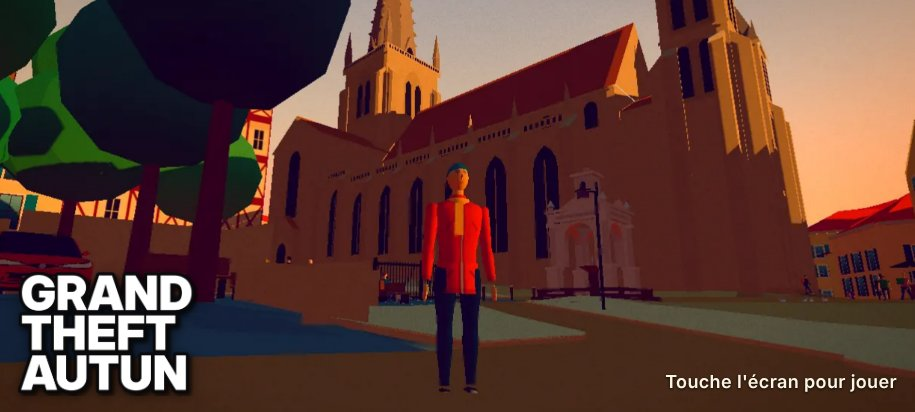
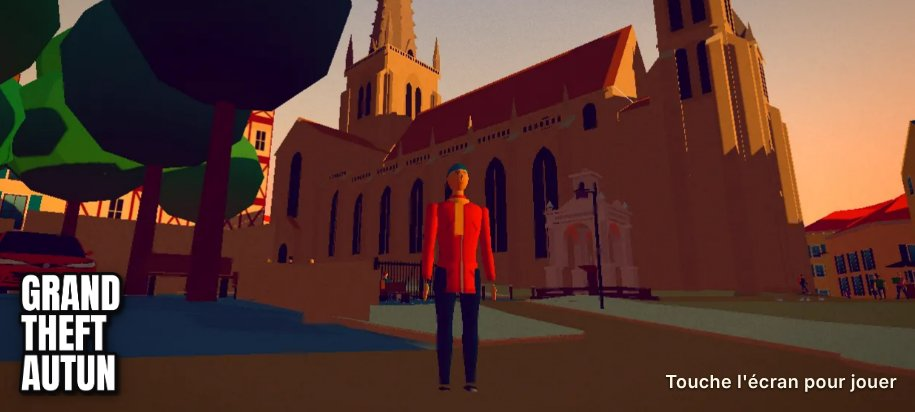
Police du titre : Anton (D339)
Pricedown étant payante, logo et jaquette refaits avec Anton (SIL OFL 1.1), choisie par l'utilisateur ;
police et licence versionnées dans tools/logo/fonts/, make_art.py s'en sert par défaut.

Claude-Session: https://claude.ai/code/session_01UKsfaKB4NzH47dYF7QdmwX

diff --git a/tools/logo/make_art.py b/tools/logo/make_art.py
@@ -2,9 +2,9 @@
 
 Usage : python3 tools/logo/make_art.py [fichier-de-police]
 
-La police des titres (Pricedown, Typodermic) ne sert qu'à fabriquer des images : elle n'est jamais embarquée dans le jeu. Elle reste hors
-du dépôt : premier argument, variable LOGO_FONT, ou premier fichier `.cache/fonts/pricedown*.{ttf,otf}`. Sans elle, le script prend une
-police de repli (Inter Display Black) et le dit : le logo est alors provisoire.
+Police du titre : **Anton** (Google Fonts, licence SIL OFL 1.1, `tools/logo/fonts/OFL-anton.txt`), choisie par l'utilisateur parmi des polices
+libres proches de celle de GTA (Pricedown, payante). Elle ne sert qu'à fabriquer des images : elle n'est pas embarquée dans le jeu. Une autre
+police : premier argument ou variable LOGO_FONT.
 
 Produit :
 - `src/assets/logo.webp` : le logo seul, fond transparent (écran de chargement, intro) ;
@@ -21,18 +21,16 @@ import sys
 from PIL import Image, ImageChops, ImageDraw, ImageEnhance, ImageFilter, ImageFont
 
 ROOT = os.path.dirname(os.path.dirname(os.path.dirname(os.path.abspath(__file__))))
-FALLBACK = "/usr/share/fonts/opentype/inter/InterDisplay-Black.otf"
+TITLE_FONT = os.path.join(ROOT, "tools/logo/fonts/anton.woff")
 LINES = ("GRAND", "THEFT", "AUTUN")
 
 
-def find_font(argv: list[str]) -> tuple[str, bool]:
-    """Chemin de la police et vrai si c'est la police des titres (pas le repli)."""
-    candidates = argv[1:2] + ([os.environ["LOGO_FONT"]] if os.environ.get("LOGO_FONT") else [])
-    candidates += sorted(glob.glob(os.path.join(ROOT, ".cache/fonts/[Pp]ricedown*.[ot]tf")))
-    for path in candidates:
+def find_font(argv: list[str]) -> str:
+    """Chemin de la police : argument, variable LOGO_FONT, sinon Anton."""
+    for path in argv[1:2] + ([os.environ["LOGO_FONT"]] if os.environ.get("LOGO_FONT") else []):
         if os.path.isfile(path):
-            return path, True
-    return FALLBACK, False
+            return path
+    return TITLE_FONT
 
 
 def logo(font_path: str, cap: int) -> Image.Image:
@@ -83,9 +81,7 @@ def save_webp(img: Image.Image, path: str, limit: int, quality: int = 88) -> int
 
 
 def main() -> None:
-    font_path, real = find_font(sys.argv)
-    if not real:
-        print(f"Police des titres absente : repli sur {FALLBACK} (logo provisoire). Déposer pricedown.otf dans .cache/fonts/.")
+    font_path = find_font(sys.argv)
 
     # Logo seul : 3 lignes de 200 px de capitale (affiché vers 26 vh de haut sur l'écran de chargement).
     os.makedirs(os.path.join(ROOT, "src/assets"), exist_ok=True)

diff --git a/docs/ROADMAP.md b/docs/ROADMAP.md
@@ -54,7 +54,7 @@ Chaque étape doit être jouable et testable sur téléphone. Les noms J1 à J7 
   - **Phase 4. Événements aléatoires. Terminée côté code** (`docs/plans/evenements.md` : 13 événements, directeur d'événements, passants réquisitionnés et fuite volontaire, une cible par poursuivant, affaires de police, budget de 0 à +3 appels de dessin, 10 lots ; réponses de l'utilisateur : « ok » pour tout ; lots faits deux par deux) : **4-1 socle et vol à l'arraché ✅** (D328 ; directeur, réglage « Événements », passants réquisitionnés, fuite volontaire aussi pour la panique, bulles, repères sur la minimap, carnet « Faits divers », `?event=`) ; **4-2 pickpocket et chien échappé ✅** (D329 ; fuyard commun, vrai plaquage, chien pris à sa laisse et ramené) ; **4-3 accident ✅** (D330 ; scène posée hors de vue, détresse, dispute, curieux, bouchon, patrouille et constat) ; **4-4 poursuite police contre conducteur ✅** (D331 ; une cible par poursuivant, fugitif qui passe près du joueur, reddition ou fuite à pied, arrestation, prime de 500 €) ; **4-5 malaise et pompiers ✅** (D332 ; fourgon des pompiers, sirène deux tons, « Aider », figurants qui contournent les murs par le graphe piéton) ; **4-6 rixe ✅** (D333 ; poings, curieux, patrouille et arrestation à pied, « Séparer ») ; **4-7 conducteurs ✅** (D334 ; conducteur énervé, livreur pressé, accident en direct) ; **4-8 mariage et feu de poubelle ✅** (D335) ; **4-9 braquage ✅** (D336 ; avec l'accord de l'utilisateur : le seul PNJ qui tire sur le joueur) ; **4-10 bilan ✅** (D337 ; carnet « Déjà vu en ville », banc à tour de rôle, protocole de mesure sur le téléphone). Reste : la mesure sur le téléphone et le réglage des fréquences en jouant. Repoussé : confettis, cortège qui répond au klaxon, colis du livreur, voiture complice du braqueur, fourgon des pompiers qui double (plan détaillé d'abord, plusieurs lots, « très intéressant, à bien travailler : c'est ce qui rend la ville vivante ») : vol à l'arraché, accident entre voitures de la circulation, poursuite entre la police et un autre conducteur, livreur pressé… Demande de généraliser la poursuite (aujourd'hui seul le joueur est poursuivi), une fuite volontaire chez les passants, des accidents mis en scène.
   - **Phase 5. Radio, puis jet-ski.** Radio : prototype d'écoute d'abord (la musique générée peut sonner « jouet »), plusieurs stations ensuite, flash info relié aux événements de la phase 4. Jet-ski sur la mer, après la mer vivante.
   - Écartés pour l'instant : mode photo, prise en main au premier lancement, réglages des boutons, écran de chargement à anecdotes (un écran de chargement à images, sans texte, est fait en D338). Tremplins : pas d'objet artificiel dans la ville, les endroits naturels suffisent (terrils, rampes de parking, ponts), le record du plus long saut en fait un jeu.
-- **GA. Grand Theft Autun : lancement et début de l'histoire. Fait** (D338 ; `docs/plans/lancement.md`, demandé par l'utilisateur le 26 novembre 2026) : nouveau nom, logo et jaquette (provisoires jusqu'à la police Pricedown), écran de chargement à images, nouvelle partie à la gare (autorail TER, cinématique passable), prologue « Le retour » (SMS de Jojo, rendez-vous au café du Champ de Mars). Suite : les **missions** de l'histoire (Le Gros, la dette), dans une phase à part. Idées notées : TER qui circule sur la ligne (même modèle), musique du chargement, Jojo qui gesticule en parlant.
+- **GA. Grand Theft Autun : lancement et début de l'histoire. Fait** (D338, D339 ; `docs/plans/lancement.md`, demandé par l'utilisateur le 26 novembre 2026) : nouveau nom, logo et jaquette (police Anton, D339), écran de chargement à images, nouvelle partie à la gare (autorail TER, cinématique passable), prologue « Le retour » (SMS de Jojo, rendez-vous au café du Champ de Mars). Suite : les **missions** de l'histoire (Le Gros, la dette), dans une phase à part. Idées notées : TER qui circule sur la ligne (même modèle), musique du chargement, Jojo qui gesticule en parlant.
 - **Intérieurs de quelques bâtiments** (idée de l'utilisateur, 2 novembre 2026) : chantier à part, plus tard (entrer et sortir, portes, chargement des lieux).
 - **Étape C. Commune entière** (43 blocs de plus, environ 14 Go de LiDAR, forêts, rivières et ponts, relief fin à 2 m en campagne, limites du monde, tests et CI allégés). Après J1 à J3 au moins.
 

diff --git a/docs/DECISIONS.md b/docs/DECISIONS.md
@@ -8521,3 +8521,13 @@ terminé.
 
 **Pas encore** : la police Pricedown (logo et jaquette provisoires) ; le TER qui circule (il pourra reprendre ce modèle) ; musique du chargement ;
 Jojo n'a pas d'animation de repos ni de geste en parlant ; les missions qui suivent le prologue.
+
+## 2026-11-26 — D339. Police du titre : Anton (remplace la police de repli de D338)
+
+**Contexte** : D338 prévoyait la police des titres de GTA (Pricedown) ; elle est payante. L'utilisateur a choisi parmi huit polices libres
+rendues avec le logo (Bangers, Luckiest Guy, Titan One, Bowlby One, Lilita One, Rubik Mono One, Anton, Ultra).
+
+**Choix** : **Anton** (Google Fonts, SIL Open Font License 1.1). Le fichier et sa licence sont dans le dépôt (`tools/logo/fonts/anton.woff`,
+`OFL-anton.txt`, ce que la licence permet) : `python3 tools/logo/make_art.py` refait logo et jaquette sans rien télécharger. Comme avant, la
+police ne sert qu'à fabriquer les images ; elle n'est pas embarquée dans le jeu. Plus étroite que la police de repli, elle laisse voir la
+flèche de la cathédrale sur la jaquette.

diff --git a/docs/plans/lancement.md b/docs/plans/lancement.md
@@ -1,7 +1,6 @@
 # Grand Theft Autun : nom, jaquette, écran de chargement, arrivée à la gare (plan)
 
-**Avancement** : **fait** (D338), sauf la police des titres : logo et jaquette faits avec une police de repli, à refaire avec Pricedown
-(`python3 tools/logo/make_art.py`). Plan rédigé le 26 novembre 2026, à la demande de l'utilisateur, avec ses réponses. Trois lots, une PR à la fin.
+**Avancement** : **fait** (D338). Police du titre : Anton (D339), Pricedown étant payante. Plan rédigé le 26 novembre 2026, à la demande de l'utilisateur, avec ses réponses. Trois lots, une PR à la fin.
 
 ## 0. Ce qu'il faut retenir
 

diff --git a/PROGRESS.md b/PROGRESS.md
@@ -2449,3 +2449,7 @@ Cadrage (D91) après ta balade : bâtiments non reconnaissables, ponts et riviè
 ![La descente](docs/captures/d338-intro-descente.jpg)
 ![SMS de Jojo](docs/captures/d338-sms-jojo.jpg)
 ![Prologue terminé](docs/captures/d338-prologue-fin.jpg)
+
+**Police du titre : Anton (26 novembre 2026)** (D339)
+- Pricedown étant payante, le logo et la jaquette sont faits avec **Anton**, police libre que tu as choisie parmi huit. Le fichier est dans le dépôt : `python3 tools/logo/make_art.py` refait tout.
+![Jaquette et logo](docs/captures/d339-intro-logo.jpg)
